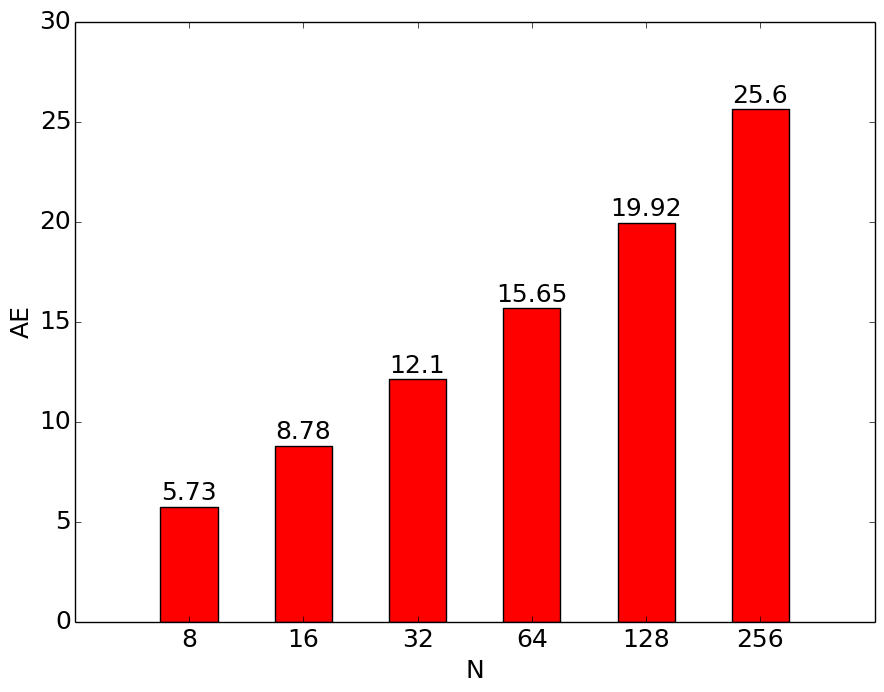
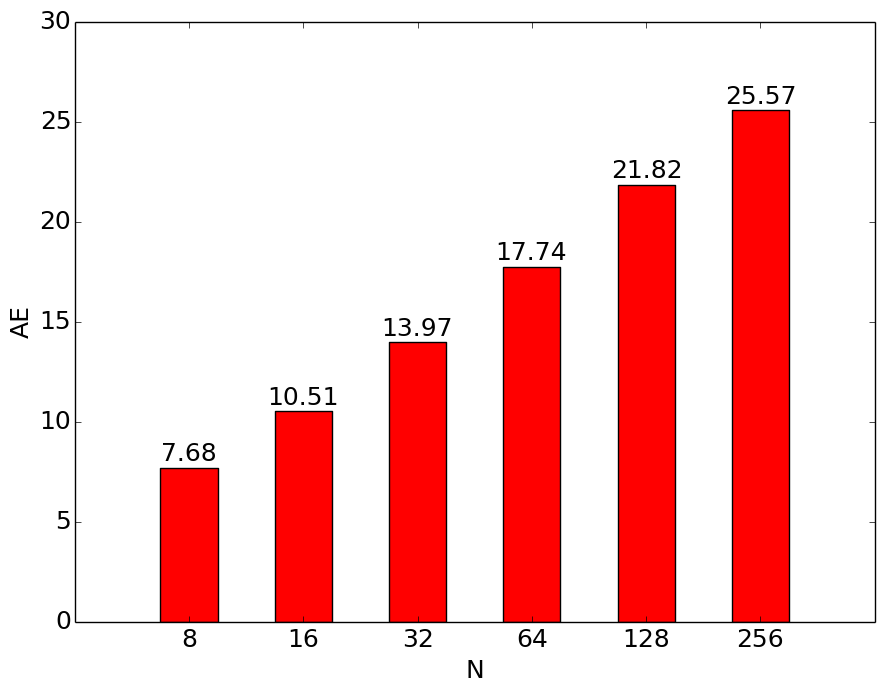
Automatic uploading. No comments!

diff --git a/figures/exp84513/plot.py b/figures/exp84513/plot.py
@@ -9,44 +9,29 @@ matplotlib.rc('font', **font)
 
 src = "./res.caida.13000.json"
 
-def func(res, gamma):
-	thresh = [str(item) for item in range(10, 101, 10)]
-	are = []
-	f1score = []
-	n_promotions = res[gamma]["n_promotions"]
-	for item in thresh:
-		tmp1 = res[gamma]["are"][item]
-		tmp2 = res[gamma]["f1score"][item]
-		are.append(tmp1)
-		f1score.append(tmp2)
-	return are, f1score, n_promotions
-
 if __name__ == "__main__":
 	with open(src, "r") as f:
 		res = json.load(f)
 	Ns = ["8", "16", "32", "64", "128", "256"]
+	n_promotions = []
 	AE1 = []
 	AE2 = []
 	for key in Ns:
+		n_promotions.append(res[key]["n_promotions"])
 		AE1.append(res[key]["ae1"])
 		AE2.append(res[key]["ae2"])
-
-	print "AE1:"
-	print AE1
-	print "AE2:"
-	print AE2
-	exit()
+		print "n:", key, ", npromotions:", res[key]["n_promotions"], ", ae1:", res[key]["ae1"], ", ae2:", res[key]["ae2"]
 
 	fig = plt.figure(1)
 	ax = fig.add_axes([0,0,1,1])
 	ax.set_xlim([0,7])
 #	ax.set_ylim([0,8])
-	plt.bar(np.arange(1, 7) - 0.25, AEs, color = 'r', width = 0.5)
+	plt.bar(np.arange(1, 7) - 0.25, AE2, color = 'r', width = 0.5)
 	plt.xlabel("N")
 	plt.ylabel("AE")
 	plt.xticks(range(1, 7), Ns)
 	rects = ax.patches
-	labels = [str(int(item*100)/100.0) for item in AEs]
+	labels = [str(int(item*100)/100.0) for item in AE2]
 	algs = ["DHF", "DHF", "DHF", "AHF", "AHF", "AHF"]
 	for rect, label in zip(rects, labels):
 		height = rect.get_height()
